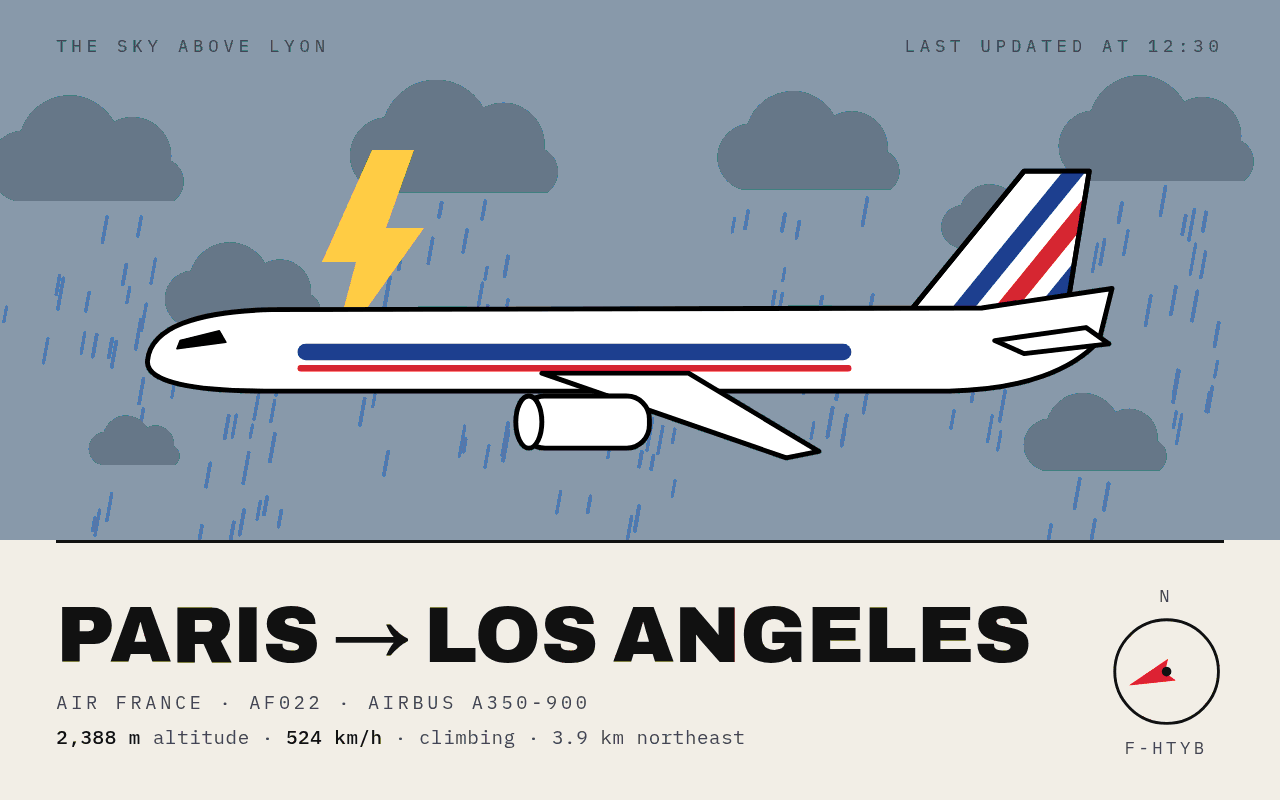
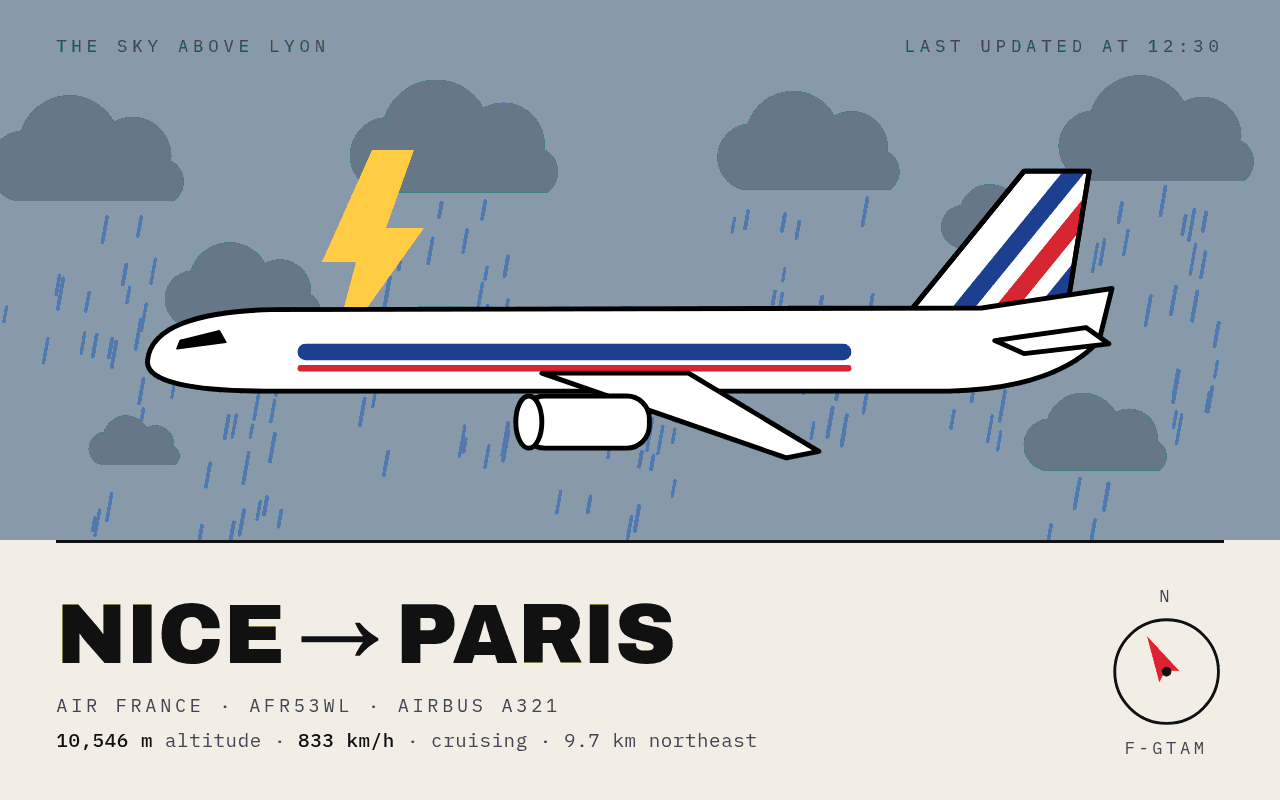
Ne plus afficher d'itinéraire incohérent avec la position de l'avion
adsbdb et la base VRS associent un indicatif à une route fixe, souvent
périmée (numéro réutilisé, vol retour) : environ un itinéraire sur cinq
était faux (ex. « Londres → Cologne » au-dessus des Alpes).

Chaque itinéraire est désormais vérifié : l'avion doit être à moins de
250 km de la ligne départ → arrivée, entre les deux aéroports et se
diriger vers l'arrivée (tolérances élargies sous 20 000 ft, pour les
départs et approches). Sinon on essaie la route inversée, puis la base
VRS ; à défaut, l'écran affiche la compagnie et « Itinéraire inconnu ».

Données de démonstration remplacées par un vol réel près de Lyon
(AFR53WL Nice → Paris) et captures du README mises à jour.

Changed region(s): [[0.0625, 0.75, 0.8125, 0.8438], [0.0312, 0.875, 0.5938, 0.9375], [0.875, 0.8125, 0.9375, 0.875]]

diff --git a/dev/recipe_test.php b/dev/recipe_test.php
@@ -12,10 +12,10 @@ $base = ['lat' => '45.7640', 'lon' => '4.8357', 'city' => 'Lyon', 'radius_km' =>
 $p->update(['name' => 'FlightPoster (test)', 'configuration' => $base + ['style' => 'eink', 'language' => 'en', 'units' => 'metric']]);
 echo "url=", $p->resolveLiquidVariables($p->polling_url), "\n";
 
-$near = ['hex' => '3965a3', 'flight' => 'AFR22   ', 'r' => 'F-HTYB', 't' => 'A359', 'desc' => 'AIRBUS A-350-900', 'category' => 'A5',
-  'alt_baro' => 7800, 'alt_geom' => 7835, 'gs' => 283, 'track' => 250, 'baro_rate' => 1600, 'lat' => 45.79, 'lon' => 4.87];
+$near = ['hex' => '394c0c', 'flight' => 'AFR53WL ', 'r' => 'F-GTAM', 't' => 'A321', 'desc' => 'AIRBUS A-321', 'category' => 'A3',
+  'alt_baro' => 34000, 'alt_geom' => 34600, 'gs' => 450, 'track' => 331, 'baro_rate' => 0, 'lat' => 45.80, 'lon' => 4.95];
 $far = array_merge($near, ['flight' => 'TVF8704 ', 'lat' => 46.35, 'lon' => 4.9, 'hex' => '39d30f', 'r' => 'F-HUYP', 't' => 'B738', 'desc' => 'BOEING 737-800']);
-$amx = array_merge($near, ['flight' => 'AMX006  ', 'hex' => '0d0e9c', 'r' => 'XA-ADL', 't' => 'B789', 'desc' => 'BOEING 787-9', 'track' => 80, 'alt_geom' => 36000, 'baro_rate' => 0, 'gs' => 480]);
+$amx = array_merge($near, ['flight' => 'AMX006  ', 'hex' => '0d0e9c', 'r' => 'XA-ADL', 't' => 'B789', 'desc' => 'BOEING 787-9', 'track' => 250, 'alt_geom' => 36000, 'baro_rate' => 0, 'gs' => 480]);
 $nje = array_merge($near, ['flight' => 'NJE278V ', 'hex' => '4951cd', 'r' => 'CS-PHJ', 't' => 'E55P', 'desc' => 'EMBRAER Phenom 300', 'category' => 'A2', 'baro_rate' => -1200]);
 $P = fn($ac, $code) => ['IDX_0' => ['aircraft' => $ac], 'IDX_1' => ['current' => ['weather_code' => $code, 'temperature_2m' => 14.2]]];
 $cases = [
